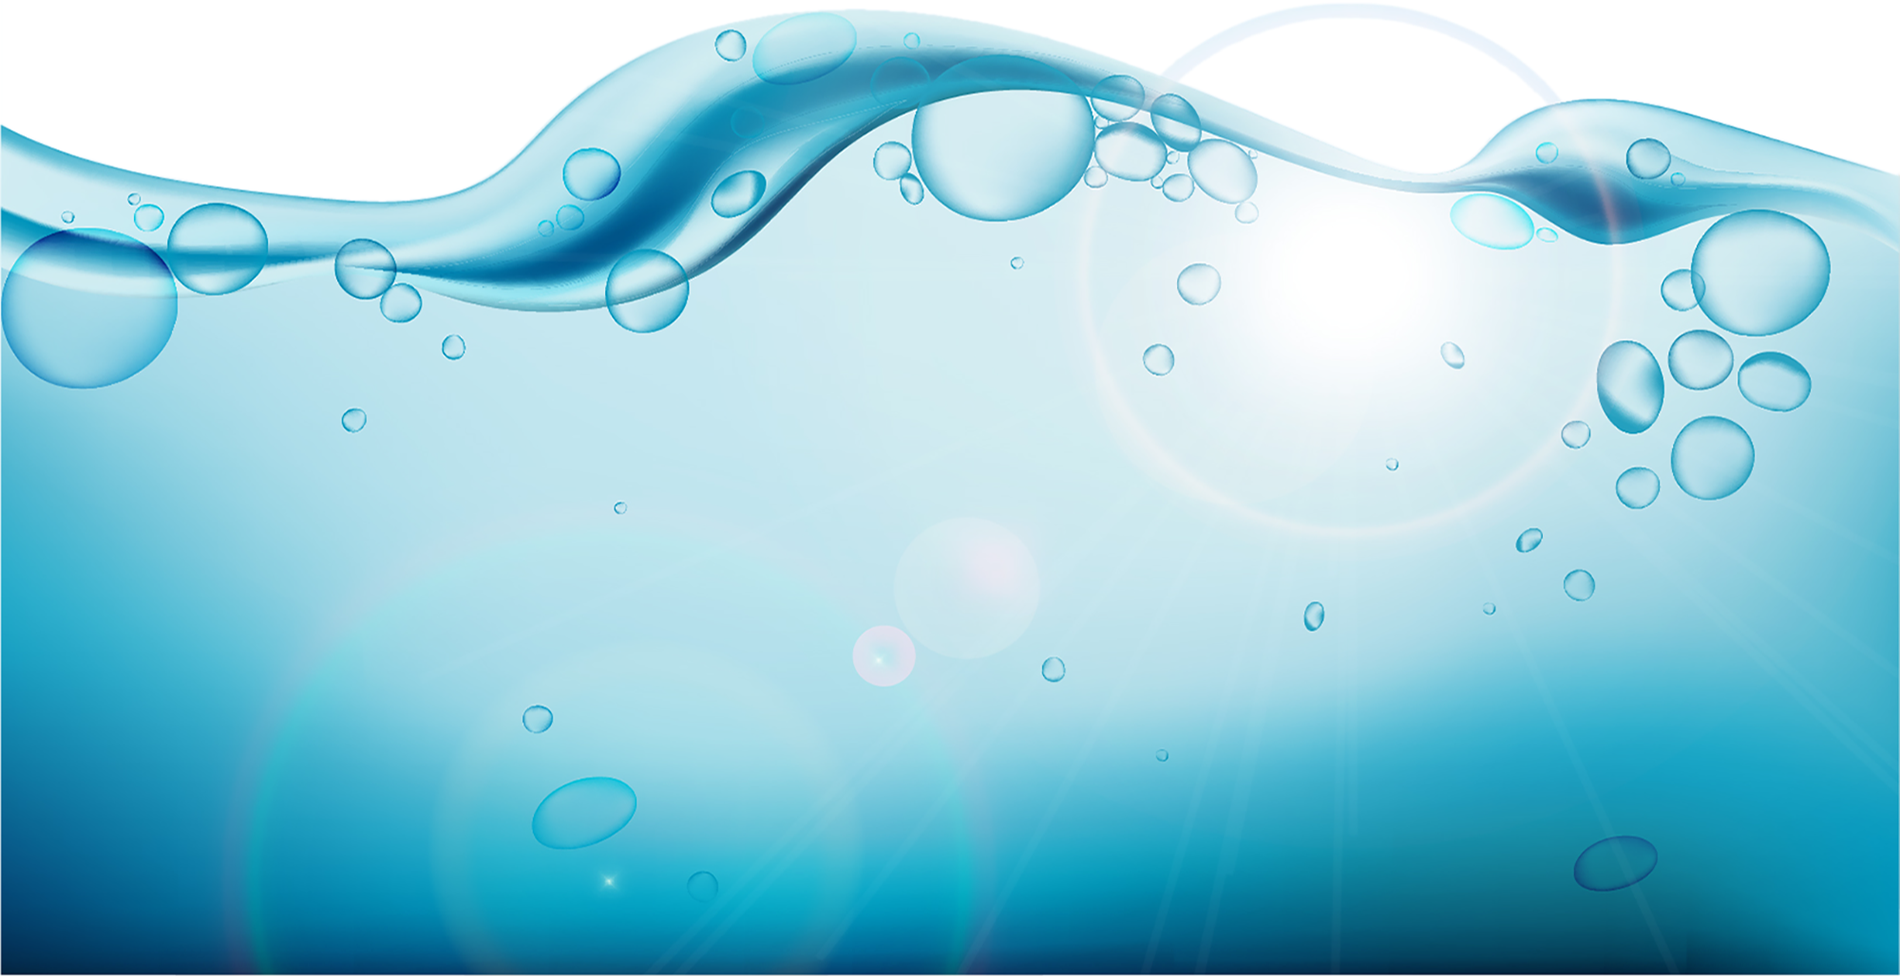
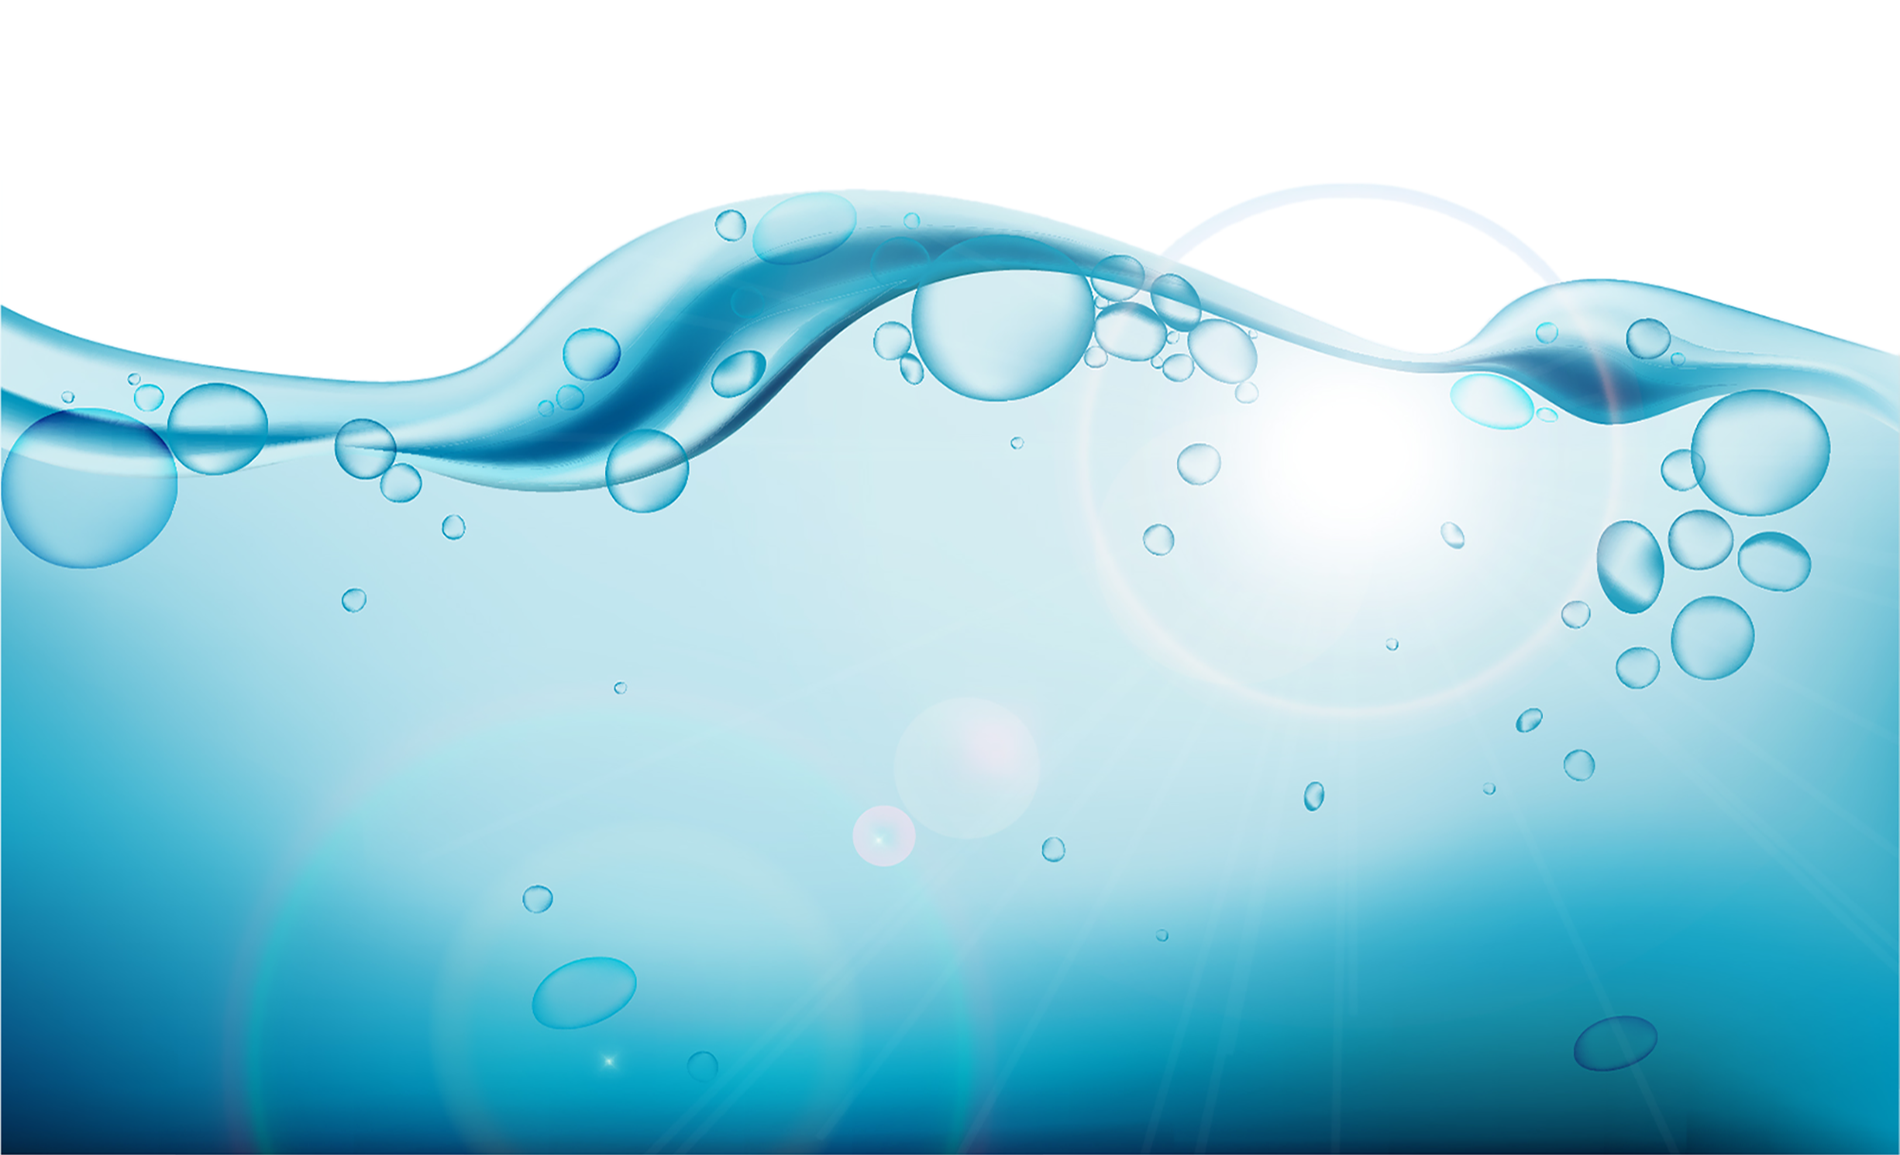
Contact Gradient

diff --git a/form.html b/form.html
@@ -26,7 +26,7 @@
 
     <!-- Main Content -->
     <body>
-        <div class="container">
+        <div class="container" id="contactwrap">
             <header>
                 <figure class="navleft">
                     <a href="index.html"><img src="images/p3_tpemblem.png" alt="MT Logo" title="Water Bubble Emblem" width="250"/></a>
@@ -43,7 +43,7 @@
                 </nav>
             </header>
             
-            <main id="contactwrap">
+            <main>
                 <div class="container">
                     <!--<div class="contacttext">
                         <h2>Contact Us</h2>
@@ -64,7 +64,7 @@
                         </div>
                         <div class="contactinquiry">
                             <label for="inquiry" class="contactinq"></label>
-                            <textarea name="inquiry" id="inquiry" cols="100" rows="5" placeholder="Type Questions/Comments Here"></textarea>
+                            <textarea name="inquiry" id="inquiry" cols="50" rows="4" placeholder="Type Questions/Comments Here"></textarea>
                         </div>
                         <div class="contactsubmit">
                             <input type="submit" value="Send"/>

diff --git a/css/style.css b/css/style.css
@@ -279,10 +279,6 @@ About Page
 Contact Page
 ==================================*/
 
-#contactwrap {
-	background: #ffffff url(../images/bblwater.png) no-repeat top left;
-	background-size: 100%;
-}
 
 #contactwrap {
 	clear: both;
@@ -290,6 +286,8 @@ Contact Page
 	margin: 0;
 	height: auto;
 	overflow: auto;
+	background: rgba(69, 184, 196, 90%) url(../images/bblfade.png) no-repeat top left;
+	background-size: 100%;
 }
 
 #contactwrap h2 {
